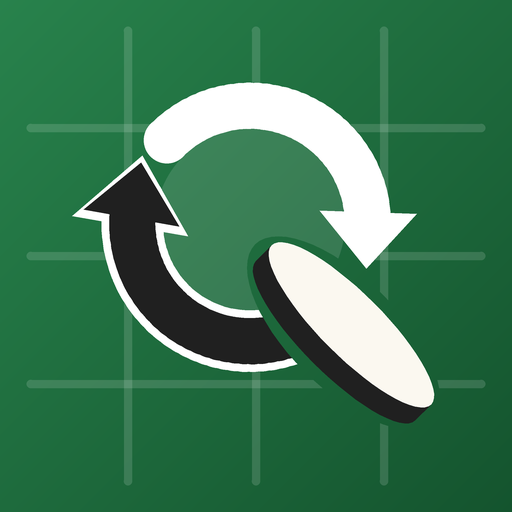
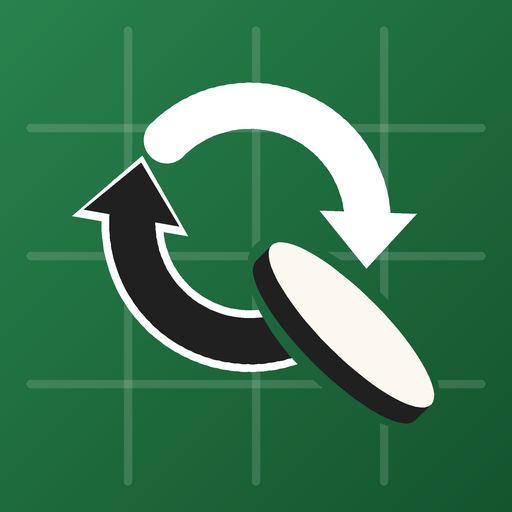
[edit]アイコンの輪の内側の塗りをやめ、盤の線を輪の中まで見せる

Changed region(s): [[0.3125, 0.25, 0.6875, 0.625]]

diff --git a/tools/icon.py b/tools/icon.py
@@ -81,8 +81,7 @@ SHAPES = [
     # うっすら盤の線（アイコンだけ。ロゴには入れない）
     *[{"t": "line", "p": [(x, 6), (x, 94)], "w": 1.6, "alpha": 0.14, "deco": True} for x in (25, 50, 75)],
     *[{"t": "line", "p": [(6, y), (94, y)], "w": 1.6, "alpha": 0.14, "deco": True} for y in (25, 50, 75)],
-    {"t": "circle", "c": C, "r": R, "fill": "bg"},  # 輪の内側は盤の線を消す
-    {"t": "circle", "c": C, "r": R - RING_W / 2, "alpha": 0.12},  # 輪の内側をうっすら（O の形をはっきり）
+    # 輪の内側は塗らず、盤の線をそのまま見せる
     *swap_arrows(),
     *tail_stone(),
 ]
